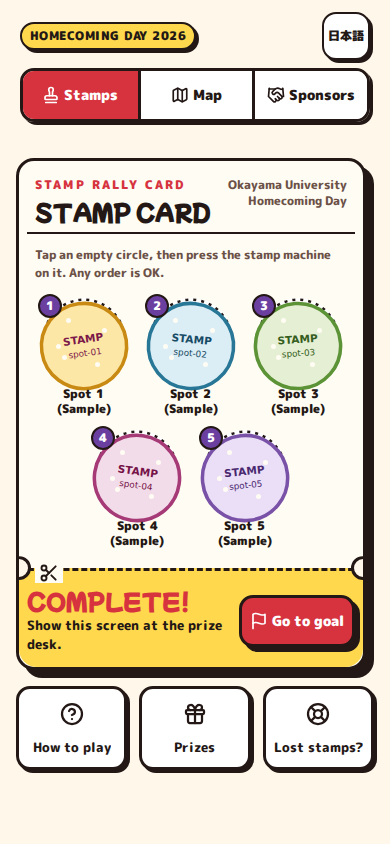
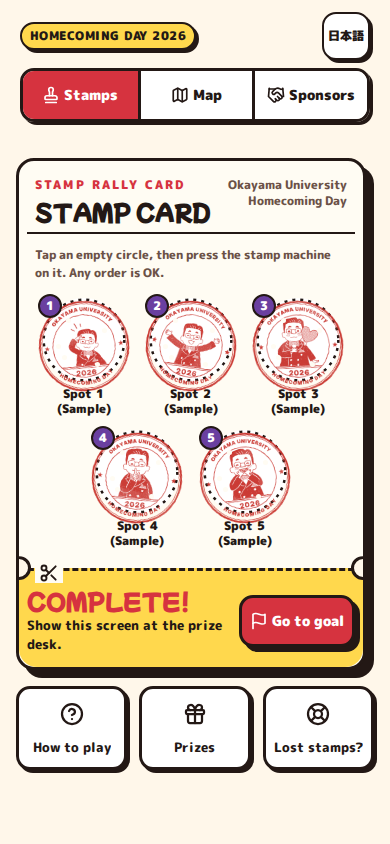
Webのスタンプ画像を確定した絵柄に差し替え
スタンプ機と同じ割り当てで、512×512の背景透過PNGを置き、仮画像の
SVGを削除した。墨のかすれでフルカラーPNGは1枚約200KBになるため、
見た目の変わらない64色のパレットPNG（約40KB）にした。スタンプが
写るスクリーンショットを撮り直した（spec 4-6、design 3章）。

diff --git a/web/src/data/stamps.ts b/web/src/data/stamps.ts
@@ -1,1 +1,2 @@
-export const stampAssetPath = (spotId: string) => `/images/stamps/${spotId}.svg`;
+// 仕様4-6: スタンプ絵柄はスポットIDをファイル名にした背景透過PNG。
+export const stampAssetPath = (spotId: string) => `/images/stamps/${spotId}.png`;
